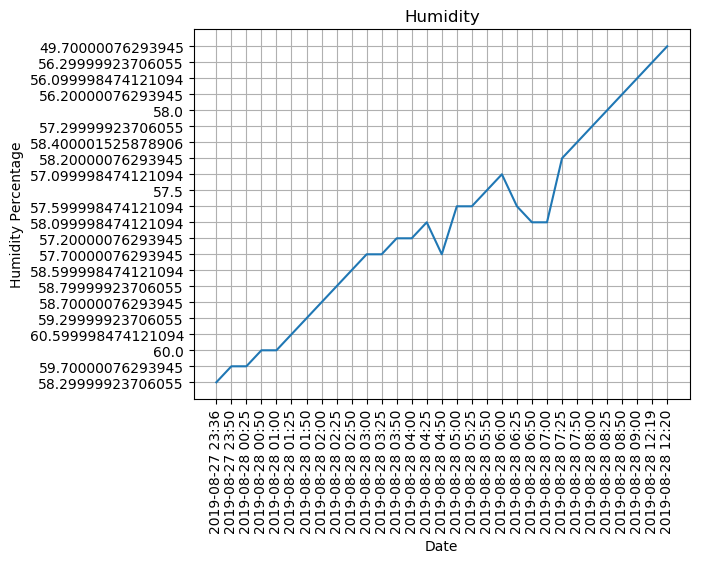
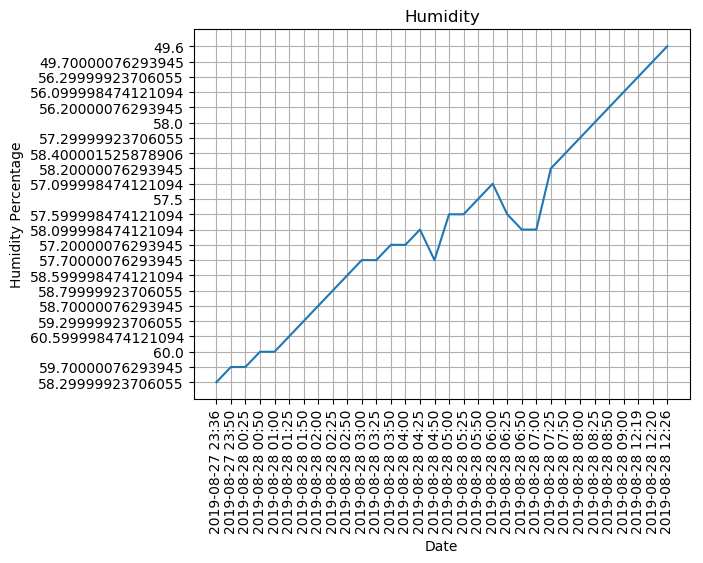
2019-08-28 12:26

Changed region(s): [[0.0299, 0.0604, 0.9858, 0.9663]]

diff --git a/monitor.py b/monitor.py
@@ -37,6 +37,8 @@ camera.stop_preview()
 sensormodel = Adafruit_DHT.AM2302
 sensorpin = 4
 humidity, temperature = Adafruit_DHT.read_retry(sensormodel, sensorpin)
+humidity = round(humidity, 1)
+temperature = round(temperature, 1)
 
 # Prepare temperature file
 with open(temperatureFileName, 'a') as file:
